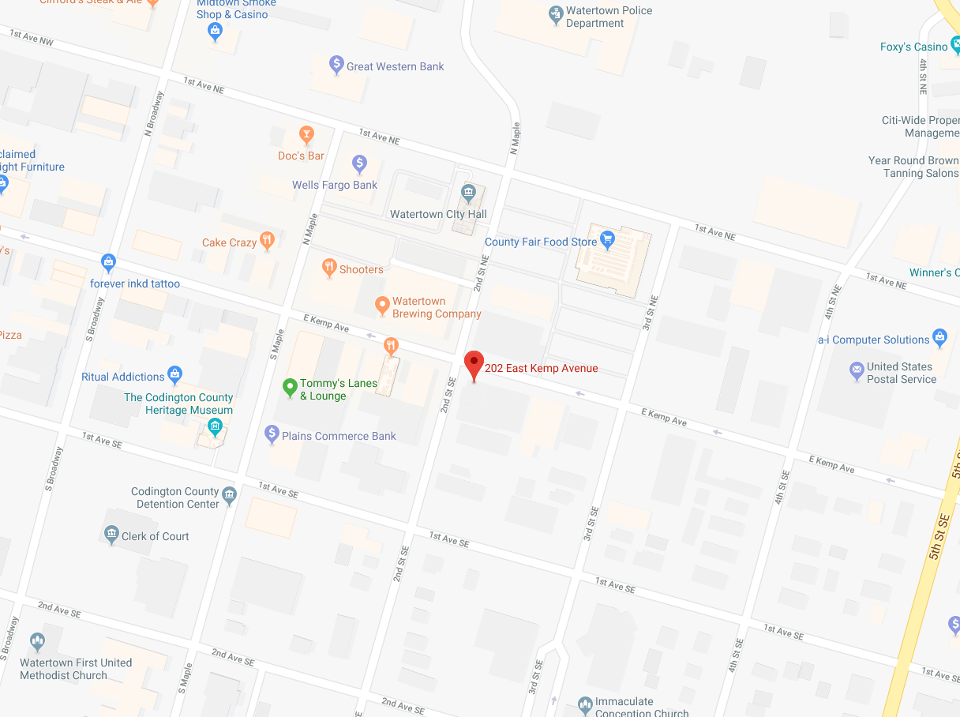
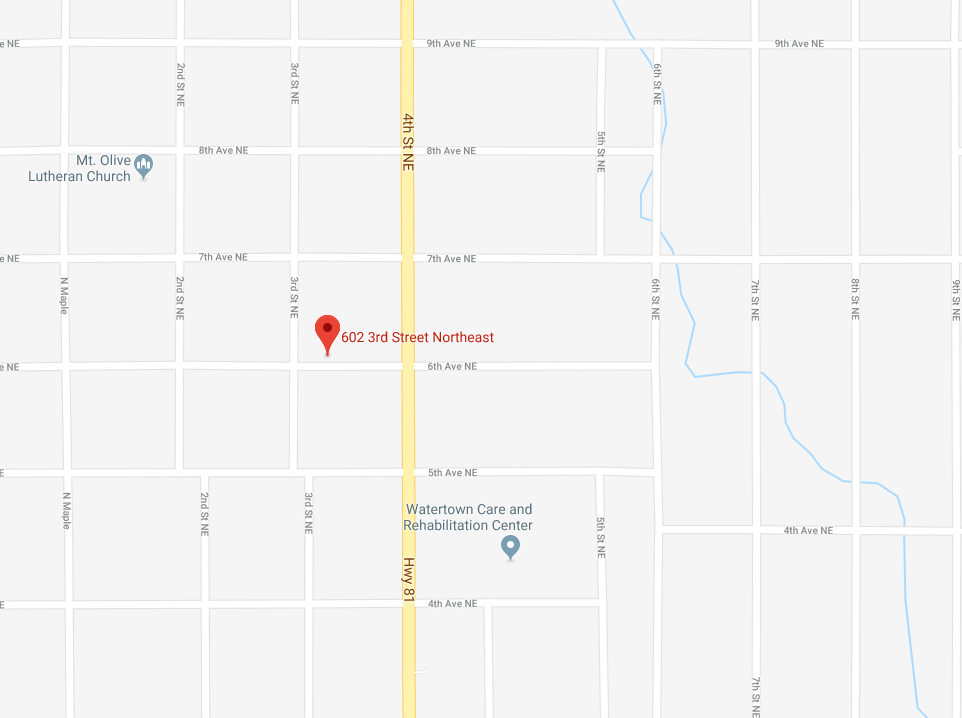
edits

diff --git a/src/components/indexComponents/Cards/JoinUsCard/JoinUsCard.js b/src/components/indexComponents/Cards/JoinUsCard/JoinUsCard.js
@@ -8,14 +8,14 @@ import style from './JoinUsCard.module.css'
 
 const JoinUsCard = props => (
   <ContentCard className={props.className}>
-    <a href="https://goo.gl/maps/ukMvkW7rGBE2" className={style.imgLink}>
+    <a href="https://goo.gl/maps/cfEWtk8EMMs" className={style.imgLink}>
       <img src={map} alt="Click for directions" />
     </a>
     <article className={style.Join}>
       <h2>Join Us</h2>
       <div className={style.articleText}>
         <div className={style.contactInformation}>
-          <p className={style.address}>202 E Kemp, Watertown, SD</p>
+          <p className={style.address}>612 3rd St NE, Watertown, SD</p>
           <div>
             <p>Call Us: (605)-868-2425</p>
             <p>trinityepiscopalfaith@gmail.com</p>
@@ -24,7 +24,7 @@ const JoinUsCard = props => (
         <div className={style.times}>
           <div className="left">
             <p>Wednesday - 5:30pm</p>
-            <p>FREE meal then Christian Study</p>
+            <p>Christian study for youth & adults with meal</p>
           </div>
           <div className="right">
             <p>Sunday - 10:00am</p>

diff --git a/src/components/indexComponents/Cards/WelcomeCard/WelcomeCard.js b/src/components/indexComponents/Cards/WelcomeCard/WelcomeCard.js
@@ -12,9 +12,9 @@ const WelcomeCard = props => (
       <p>
         Trinity Episcopal Church is an open and affirming, welcoming community.
         We strive to love our neighbors as ourselves and respect the dignity of
-        every person. We welcome all to find a spiritual home in the Episcopal
+        every human being. We welcome all to find a spiritual home in the Episcopal
         Church. We welcome everyone to the table to worship together to the
-        Glory of God. Amen.
+        Glory of God. 
       </p>
     </div>
   </ContentCard>

diff --git a/src/components/Footer/Bottom/Right/Right.js b/src/components/Footer/Bottom/Right/Right.js
@@ -7,7 +7,7 @@ const Right = () => (
   <div className={style.Right}>
     <div className={style.Address}>
       <p>Trinity Episcopal Church</p>
-      <p>202 E Kemp</p>
+      <p>612 3rd St NE</p>
       <p>Watertown, SD</p>
       <p>(605)-868-2425</p>
     </div>

diff --git a/src/components/Footer/Bottom/Left/Badges/Badges.js b/src/components/Footer/Bottom/Left/Badges/Badges.js
@@ -9,7 +9,6 @@ const Badges = props => (
     <img src={prideFlag} alt="Pride Flag" />
     <img src={featherLogo} alt="Cross with Feathers" />
     <img src={cross} alt="Niobrara Cross" />
-    {/* <img src={diocesan} alt="Diocesan Cross" /> */}
   </>
 )
 

diff --git a/src/components/Footer/Top/Top.module.css b/src/components/Footer/Top/Top.module.css
@@ -15,6 +15,12 @@
   line-height: 1.2em;
 }
 
+@media (max-width: 530px) {
+  .Top {
+    padding: 10px;
+  }
+}
+
 @media (min-width: 800px) {
   .Top p {
     font-size: 2vw;

diff --git a/src/components/Footer/Bottom/Left/Left.module.css b/src/components/Footer/Bottom/Left/Left.module.css
@@ -6,6 +6,12 @@
 }
 
 .Left img {
-  width: 2em;
+  width: 3em;
   margin-left: 1em;
+}
+
+@media(max-width: 430px) {
+  .Left img {
+    width: 2em;
+  }
 }
